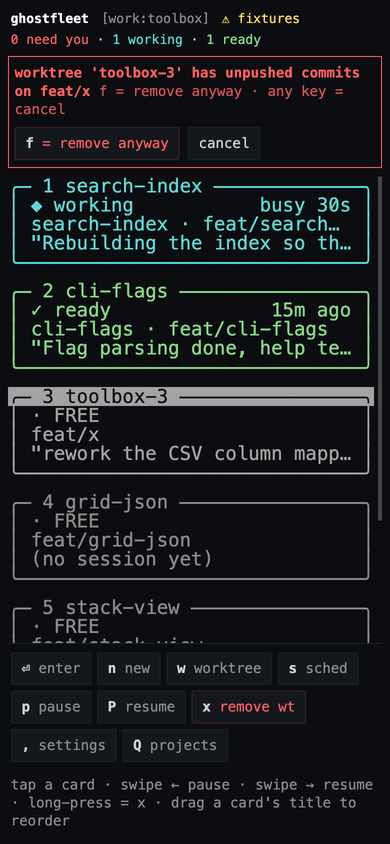
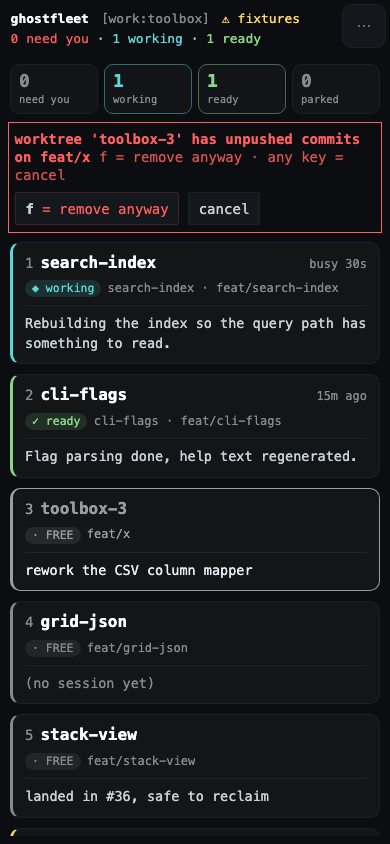
The phone media showed a client three redesigns out of date (#11)
#6, #8, #9 and #10 rebuilt the screens these seven files document. The cards are not box
art any more, the grid's footer of ten verbs became a `⋯` sheet in the header, the session
bar and composer changed — and every image still showed the old client. An image cannot
fail a test, so nothing said so.

Re-shot all seven from the demo fixtures at 390x844, same names, same beats: projects →
grid → chat → a draft → the actions sheet → the live pane → back to projects. The swipe
between sessions is added, because that gesture is one of the things the desk has no
equivalent for and the old media never showed it.

The permission prompt is still there, on `api-fix`, for the reason it was first kept: a
phone that can answer a blocked worker is the argument for the phone client existing, and
it is the one frame that makes it.

## Every frame was read, not sampled

**184 recorded frames + 3 stills = 187 images.** Each frame was captured with the text the
DOM actually rendered into it beside the pixels, because a thumbnail cannot settle whether
a string is a real path and 187 images cannot be read by eye with any honesty.

| scanned for | hits |
|---|---|
| the sweep's own denylist (its tokenizer, its digests) | **0** |
| `/Users/` paths | **0** |
| email addresses | **0** |
| tailnet or bare IPs | **0** |
| `.local` hostnames | **0** |

The only project roots appearing anywhere: `acme-api`, `acme-web`, `billing-svc`,
[…]

diff --git a/web/README.md b/web/README.md
@@ -29,7 +29,7 @@ that still renders is a card that still looks right.
 | the grid, `nc = 1`, scrolling | the session, which is a chat | its live pane |
 |---|---|---|
 | ![grid](../docs/mobile/grid.gif) | ![session](../docs/mobile/session.gif) | ![pane](../docs/mobile/pane.gif) |
-| the card list is the one region that scrolls — the page itself never does | at rest, scrolled back through older turns, a draft in the composer, and the `⋯` sheet | as attached, then `fit`, then zoomed, then scrollback |
+| the card list is the one region that scrolls — the page itself never does | at rest, scrolled back through older turns, a draft typed into the composer, and a swipe to the next session and back | as attached, then zoomed in twice, then `fit`, then scrollback |
 
 | all nine statuses | projects | the TUI's own confirmation, and its force step |
 |---|---|---|
@@ -57,23 +57,33 @@ enrolment and no real fleet data in the frame:
 (cd web && python3 -m http.server 8899 --bind 127.0.0.1)
 ```
 
-Open it at a 390x844 viewport with `devicePixelRatio` 2, take the fixture bypass on the
-lock screen, and shoot each screen. Note that the cards are not `<button>`s and they do
-not listen for `click`: the tap handler is `pointerup` on `.card` (`wire()` in `app.js` —
-named rather than given a line number, which this one had and which pointed at an
-unrelated comment two ports later), guarded
-by a movement slop and a long-press timer, so a driver that only dispatches `click` selects
-a card and never opens it. Downscale the 2x captures to the 390-wide convention, and build
-each GIF from its frames with the concat demuxer, a `duration` per frame — the screens are
-static between interactions, so 5fps is enough, and `stats_mode=diff` is what keeps a dark
-UI from banding. The grid's loop ping-pongs back to the top so it reads as a scroll rather
-than a jump cut:
+Open it at a 390x844 viewport, take the fixture bypass on the lock screen, and shoot each
+screen. Note that the cards are not `<button>`s and they do not listen for `click`: the tap
+handler is `pointerup` on `.card` (`wire()` in `app.js`), guarded by a movement slop and a
+long-press timer, so a driver that only dispatches `click` selects a card and never opens
+it. A swipe and a long-press have to be *held and moved* for the same reason — the client
+tells them apart from the pointer track, not from the event name.
+
+CLEAR THE SERVICE WORKER BEFORE THE FIRST NAVIGATION. It is cache-first, so a shell left
+from an earlier run serves the fixtures it was built with and the recording looks perfect
+while documenting data that is gone. Unregister, delete the caches, reload, and then read
+`caches.keys()` back to confirm which shell actually answered.
+
+Shoot at `deviceScaleFactor` 1 — the convention is 390 wide, and capturing at 2x only to
+downscale softens terminal text that is already pixel-aligned. 5fps is enough because the
+screens are static between interactions, and `stats_mode=diff` is what keeps a dark UI from
+banding.
+
+`dither=none`, which is a change: this UI is flat blocks of a dozen terminal colours with
+no gradient to band, so ordered dithering only adds noise that no GIF can compress.
+Measured on the same 82 frames of the demo walk — bayer 558kB, none 421kB, and the frames
+are indistinguishable. Every file here is under what it replaced.
 
 ```bash
-ffmpeg -f concat -safe 0 -i list.txt -filter_complex \
-  "fps=5,scale=390:-1:flags=lanczos,split[a][b];\
-   [a]palettegen=max_colors=128:stats_mode=diff[p];\
-   [b][p]paletteuse=dither=bayer:bayer_scale=3" \
+ffmpeg -framerate 5 -i frames/f%04d.png \
+  -vf "palettegen=max_colors=128:stats_mode=diff" palette.png -y
+ffmpeg -framerate 5 -i frames/f%04d.png -i palette.png \
+  -lavfi "paletteuse=dither=none:diff_mode=rectangle" \
   -loop 0 docs/mobile/phone-demo.gif -y
 ```
 

diff --git a/README.md b/README.md
@@ -33,9 +33,10 @@ get one screen that shows what every one of them is doing.
 
 <p align="center">
   <img src="docs/mobile/phone-demo.gif" width="260"
-       alt="On a phone: the projects list, one project's grid of session cards, a session as a
-            chat with bubbles and a composer, the actions sheet, and the live pane showing a
-            permission prompt waiting on an answer.">
+       alt="On a phone: the projects list and its profile tabs, one project's grid of session
+            cards, the actions sheet behind the header's dots, a session as a chat with
+            bubbles and a composer being typed into, a swipe to the next session, and the
+            live pane showing a permission prompt waiting on an answer.">
 </p>
 <p align="center">
   <b>Unblock one from anywhere.</b> <sub>The same grid as an installable web app. A session is
